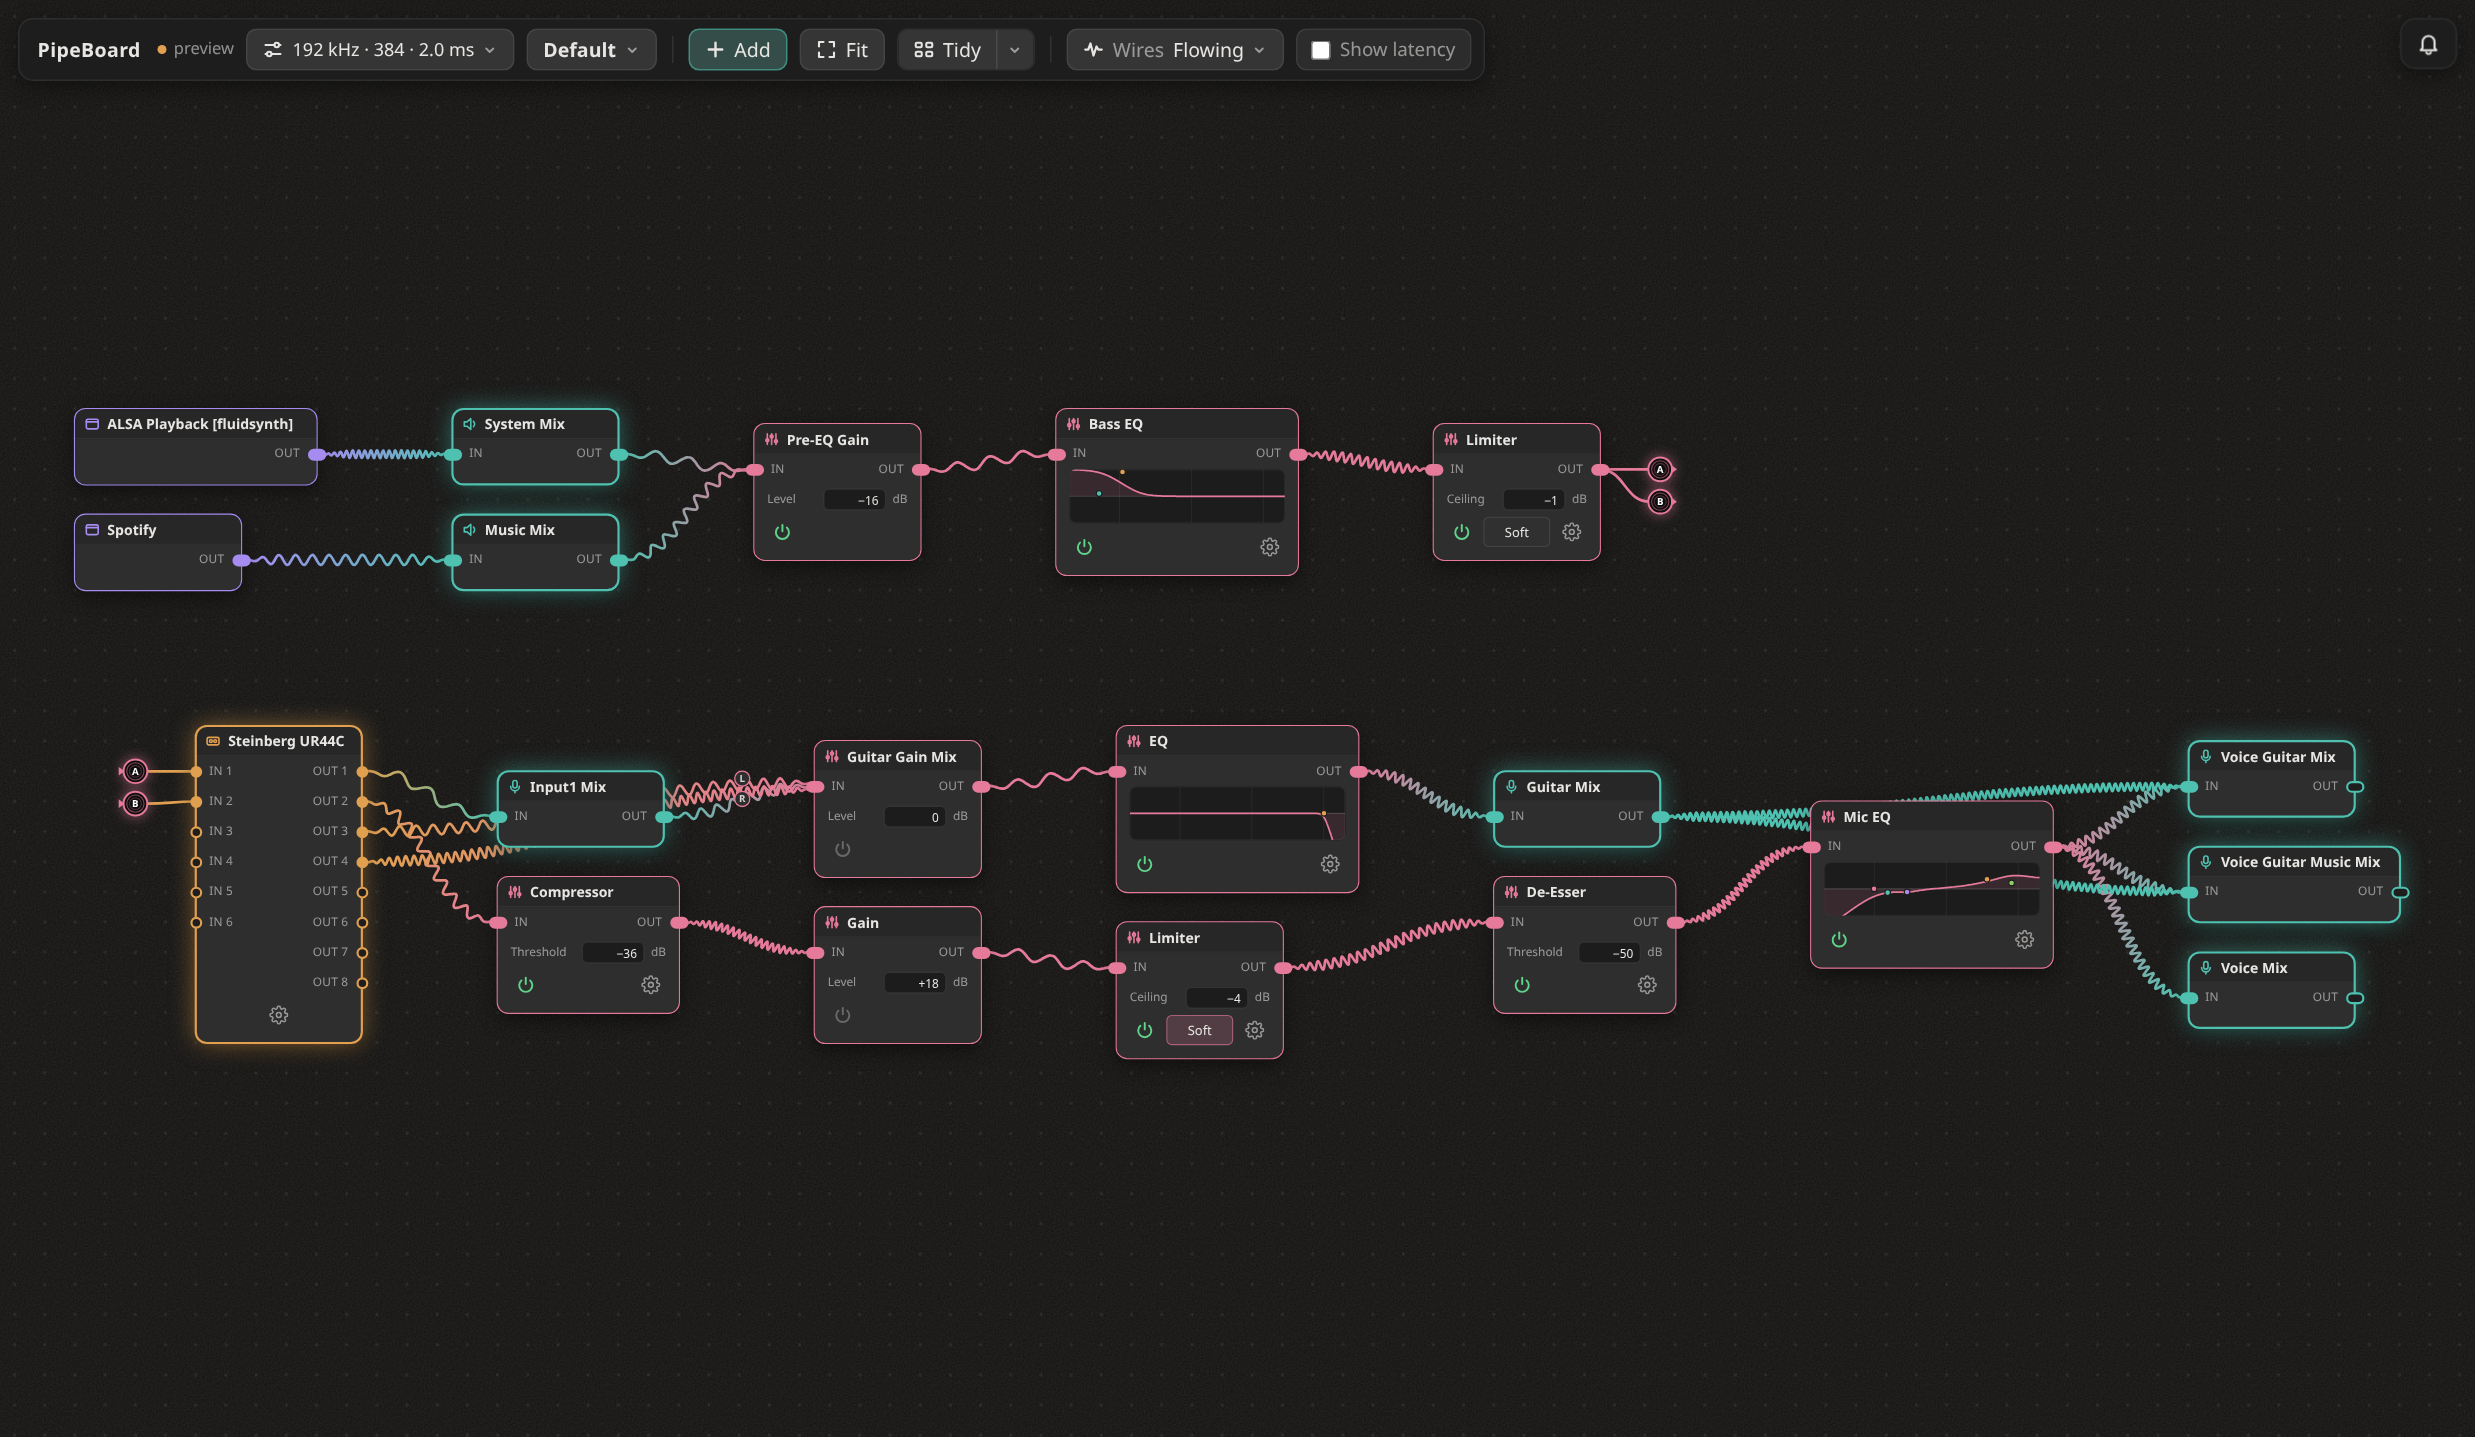
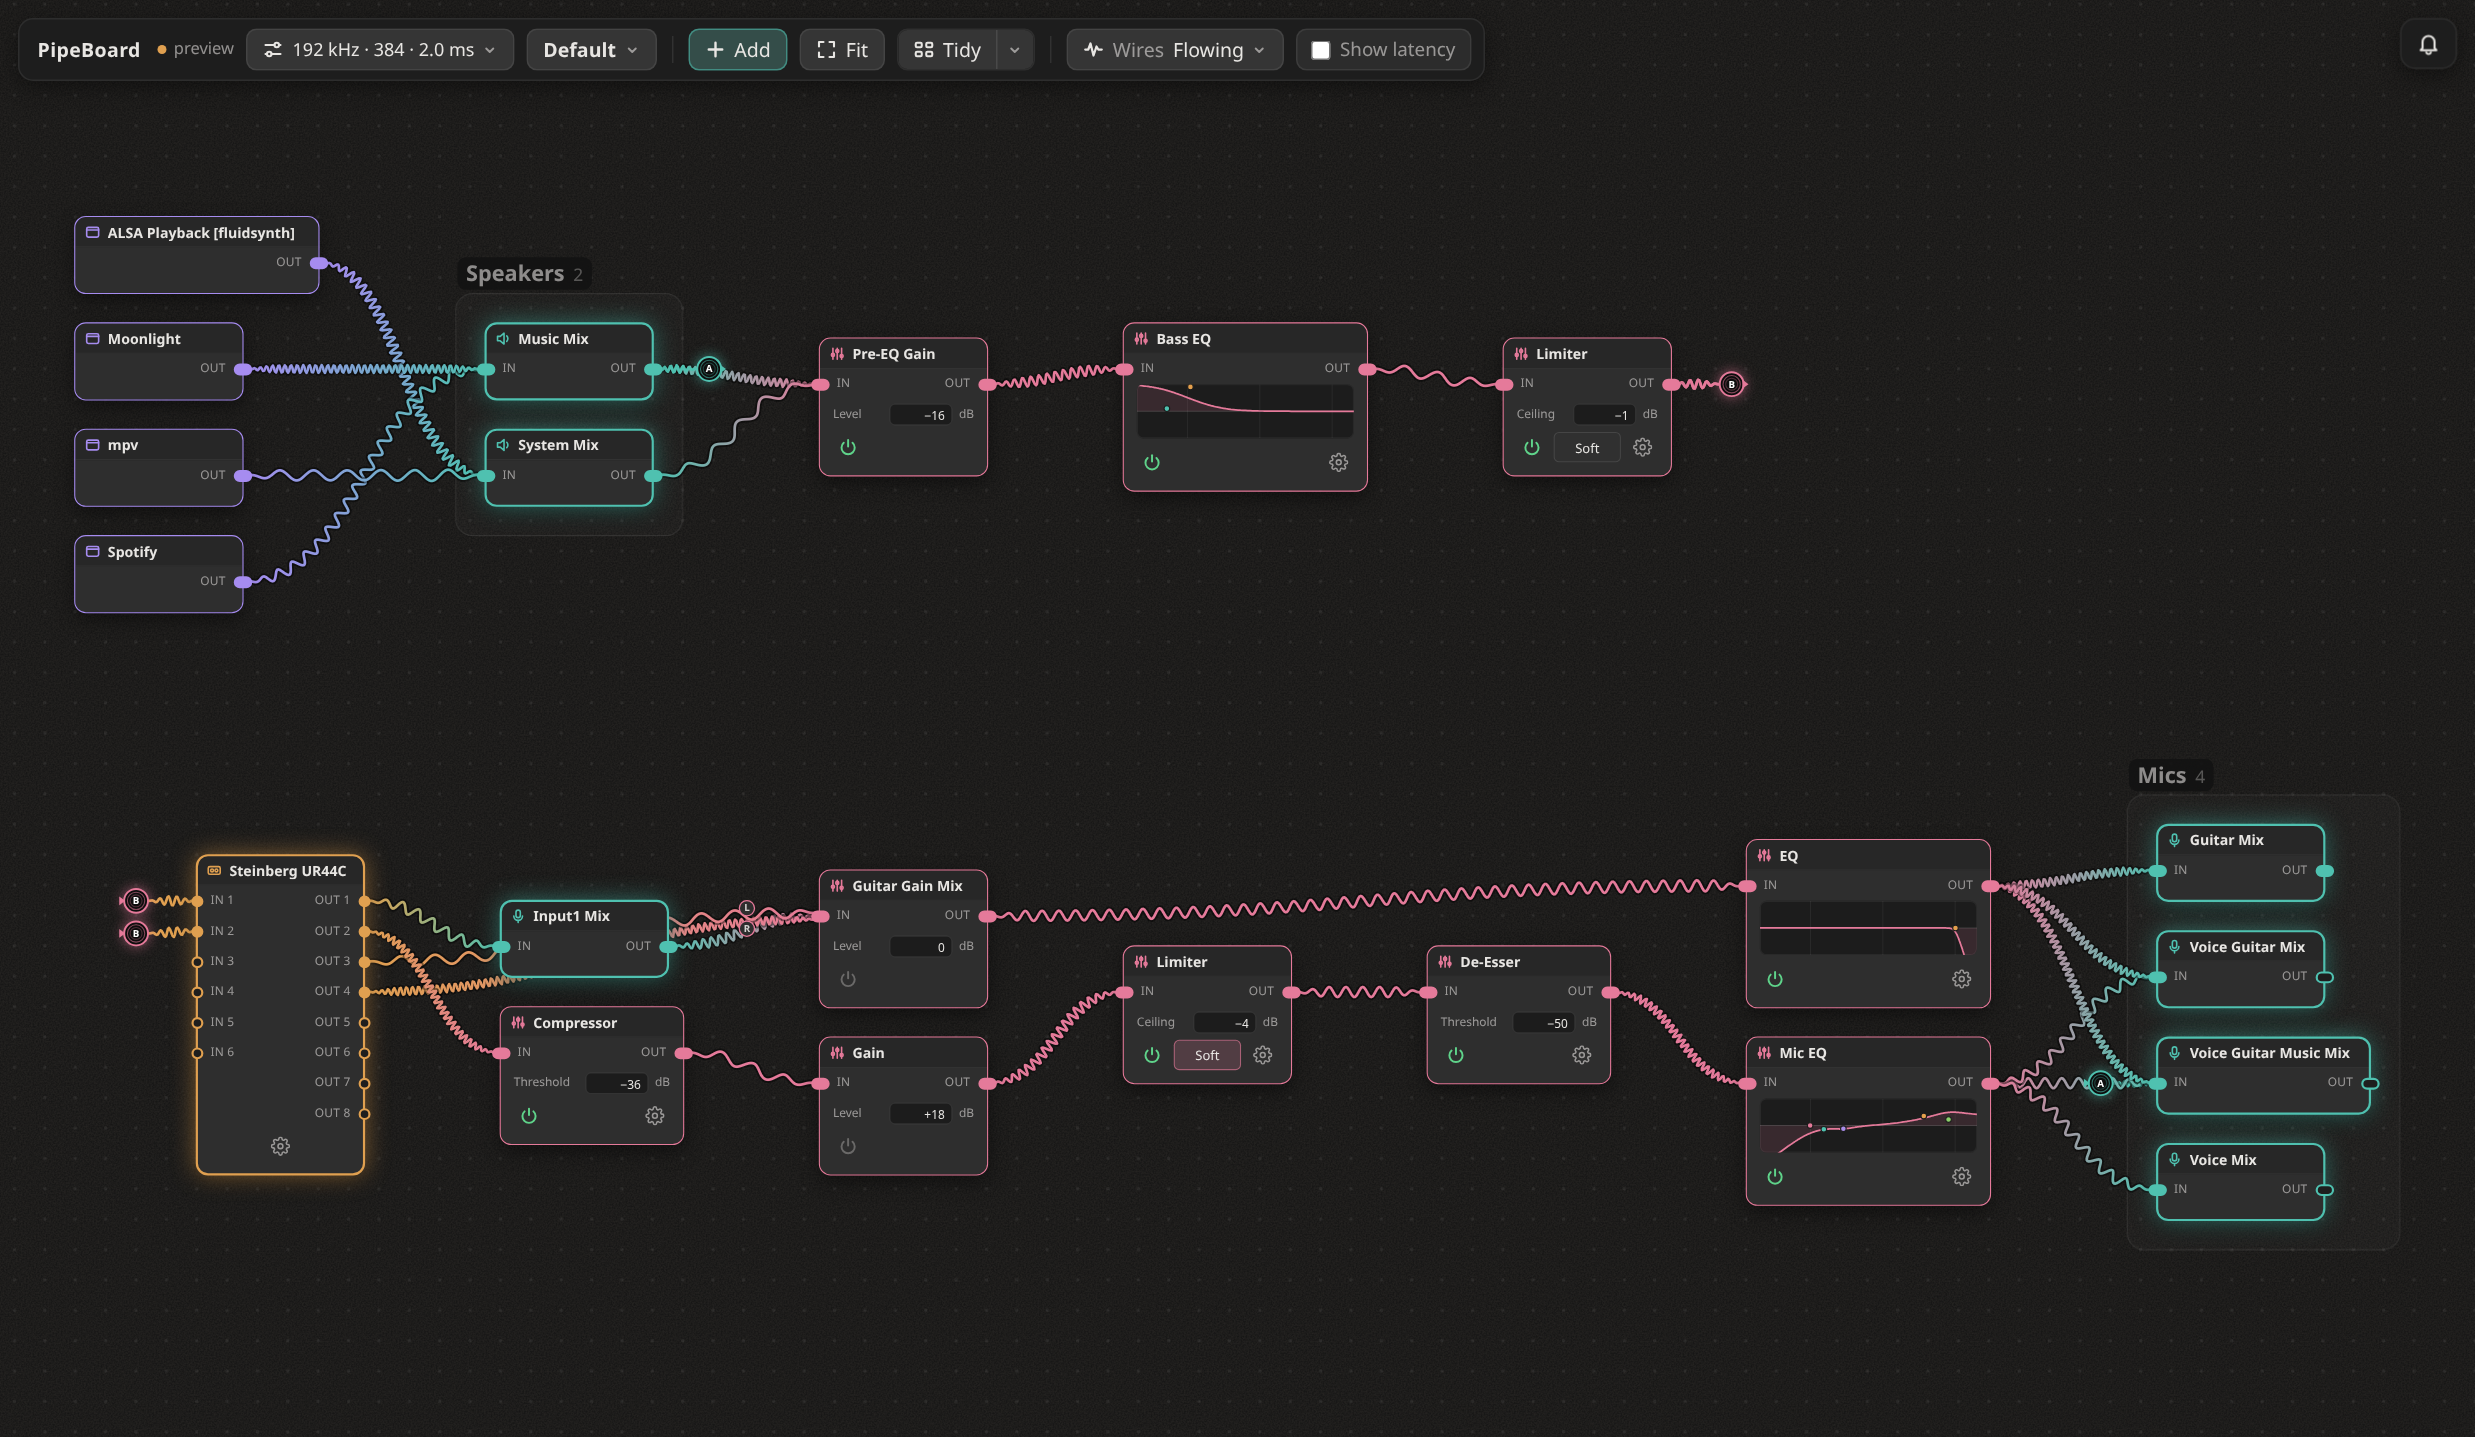
docs(readme): pictures rendered again on the GPU drawing, and portals one per output
Every picture from scripts/readme.py again after the wires and scopes
moved to WebGL; 11 of them changed. The Portals text now says an output
feeding several inputs keeps one letter, and that hovering the card's
group shows its wires too. The captions name the portals that are now
in the pictures (A to D; B is Music Mix to Stream Mix).

diff --git a/README.md b/README.md
@@ -29,15 +29,16 @@ plugins to any signal path.
 ## Portals
 
 Long boards fold into rows with **Tidy**. A wire between rows becomes a pair of lettered portals,
-so it doesn't cross the whole board. The arrow on each badge shows which way the sound goes.
+so it doesn't cross the whole board. An output that feeds several inputs keeps one letter and one
+badge for all of them. The arrow on each badge shows which way the sound goes.
 
-![The board tidied into two rows, wires between them hidden behind portals A, B and C](docs/images/portals.png)
+![The board tidied into two rows, wires between them hidden behind portals A to D](docs/images/portals.png)
 
-Hover a portal, or either card, to see its whole wire. Right-click any wire to make it a portal
+Hover a portal, either card, or a group the card is in, to see its whole wire. Right-click any wire to make it a portal
 yourself. Folding is off until you turn on **Portals** in Tidy's menu (the arrow next to it). Portals only change the drawing; the
 sound still goes straight from A to B.
 
-![Portal B hovered: its wire from the Limiter to the interface shows with its sound, the rest dim](docs/images/portals-hover.gif)
+![Portal B hovered: its wire from Music Mix to Stream Mix shows with its sound, the rest dim](docs/images/portals-hover.gif)
 
 ## Effects
 
